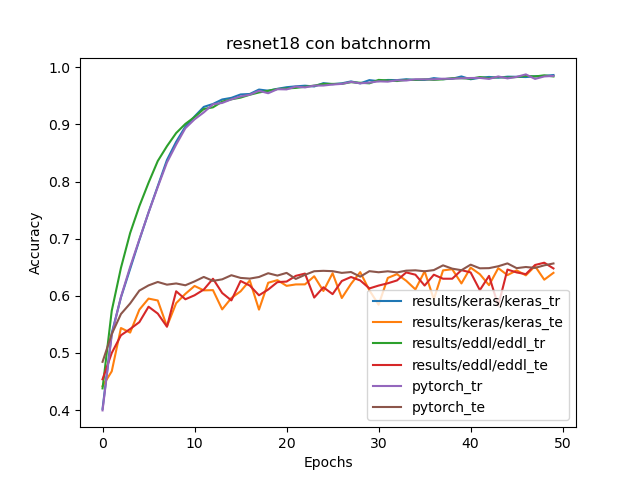
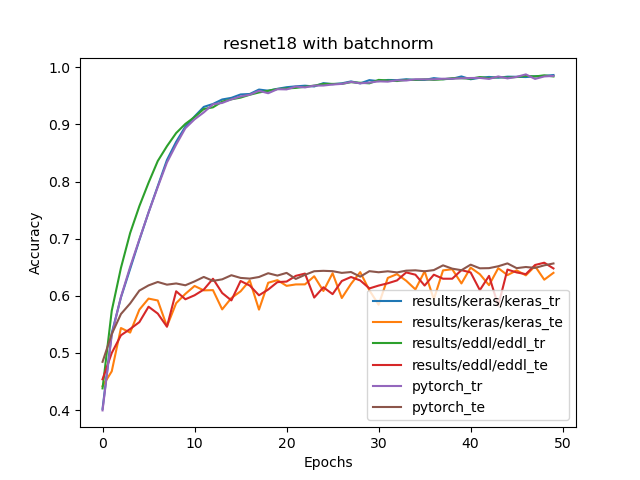
translate to english

Changed region(s): [[0.3438, 0.0625, 0.6875, 0.125]]

diff --git a/parse_res_resnet.py b/parse_res_resnet.py
@@ -17,7 +17,7 @@ def get_eddl_res(fname):
 		acc_eddl_te = [float(l.split("metric[categorical_accuracy]=")[1].split(" ) ")[0]) for l in lineste]
 		return acc_eddl, acc_eddl_te, round(np.mean(times))
 
-#VGG16 sin batchnorm
+#VGG16 without batchnorm
 with open("results/keras/keras_resnet18_no_batchnorm", "rb") as f:
 	acc_keras_tr = pickle.load(f)
 with open("results/keras/keras_val_resnet18_no_batchnorm", "rb") as f:
@@ -43,7 +43,7 @@ plt.plot(acc_eddl_tr)
 plt.plot(acc_eddl_te)
 plt.plot(acc_pytorch_tr)
 plt.plot(acc_pytorch_te)
-plt.title("resnet18 sin batchnorm")
+plt.title("resnet18 without batchnorm")
 plt.legend(["results/keras/keras_tr", "results/keras/keras_te", "results/eddl/eddl_tr", "results/eddl/eddl_te", "pytorch_tr", "pytorch_te"])
 plt.ylabel("Accuracy")
 plt.xlabel("Epochs")
@@ -52,7 +52,7 @@ plt.savefig("results/resnet18_nobn.png")
 plt.clf()
 
 
-#VGG16 con batchnorm
+#VGG16 with batchnorm
 with open("results/keras/keras_resnet18_batchnorm", "rb") as f:
 	acc_keras_tr = pickle.load(f)
 with open("results/keras/keras_val_resnet18_batchnorm", "rb") as f:
@@ -77,7 +77,7 @@ plt.plot(acc_eddl_tr)
 plt.plot(acc_eddl_te)
 plt.plot(acc_pytorch_tr)
 plt.plot(acc_pytorch_te)
-plt.title("resnet18 con batchnorm")
+plt.title("resnet18 with batchnorm")
 plt.legend(["results/keras/keras_tr", "results/keras/keras_te", "results/eddl/eddl_tr", "results/eddl/eddl_te", "pytorch_tr", "pytorch_te"])
 plt.ylabel("Accuracy")
 plt.xlabel("Epochs")
@@ -85,7 +85,7 @@ plt.savefig("results/resnet18_bn.png")
 #plt.show()
 plt.clf()
 
-#VGG19 sin batchnorm
+#VGG19 without batchnorm
 with open("results/keras/keras_resnet34_no_batchnorm", "rb") as f:
 	acc_keras_tr = pickle.load(f)
 with open("results/keras/keras_val_resnet34_no_batchnorm", "rb") as f:
@@ -111,7 +111,7 @@ plt.plot(acc_eddl_tr)
 plt.plot(acc_eddl_te)
 plt.plot(acc_pytorch_tr)
 plt.plot(acc_pytorch_te)
-plt.title("resnet34 sin batchnorm")
+plt.title("resnet34 without batchnorm")
 plt.legend(["results/keras/keras_tr", "results/keras/keras_te", "results/eddl/eddl_tr", "results/eddl/eddl_te", "pytorch_tr", "pytorch_te"])
 plt.ylabel("Accuracy")
 plt.xlabel("Epochs")
@@ -119,7 +119,7 @@ plt.savefig("results/resnet34_nobn.png")
 #plt.show()
 plt.clf()
 
-#VGG19 con batchnorm
+#VGG19 with batchnorm
 with open("results/keras/keras_resnet34_batchnorm", "rb") as f:
 	acc_keras_tr = pickle.load(f)
 with open("results/keras/keras_val_resnet34_batchnorm", "rb") as f:
@@ -144,7 +144,7 @@ plt.plot(acc_eddl_tr)
 plt.plot(acc_eddl_te)
 plt.plot(acc_pytorch_tr)
 plt.plot(acc_pytorch_te)
-plt.title("resnet34 con batchnorm")
+plt.title("resnet34 with batchnorm")
 plt.legend(["results/keras/keras_tr", "results/keras/keras_te", "results/eddl/eddl_tr", "results/eddl/eddl_te", "pytorch_tr", "pytorch_te"])
 plt.ylabel("Accuracy")
 plt.xlabel("Epochs")
@@ -152,7 +152,7 @@ plt.savefig("results/resnet34_bn.png")
 #plt.show()
 plt.clf()
 
-#VGG19 sin batchnorm
+#VGG19 without batchnorm
 with open("results/keras/keras_resnet50_no_batchnorm", "rb") as f:
 	acc_keras_tr = pickle.load(f)
 with open("results/keras/keras_val_resnet50_no_batchnorm", "rb") as f:
@@ -178,7 +178,7 @@ plt.plot(acc_eddl_tr)
 plt.plot(acc_eddl_te)
 plt.plot(acc_pytorch_tr)
 plt.plot(acc_pytorch_te)
-plt.title("resnet50 sin batchnorm")
+plt.title("resnet50 without batchnorm")
 plt.legend(["results/keras/keras_tr", "results/keras/keras_te", "results/eddl/eddl_tr", "results/eddl/eddl_te", "pytorch_tr", "pytorch_te"])
 plt.ylabel("Accuracy")
 plt.xlabel("Epochs")
@@ -186,7 +186,7 @@ plt.savefig("results/resnet50_nobn.png")
 #plt.show()
 plt.clf()
 
-#VGG19 con batchnorm
+#VGG19 with batchnorm
 with open("results/keras/keras_resnet50_batchnorm", "rb") as f:
 	acc_keras_tr = pickle.load(f)
 with open("results/keras/keras_val_resnet50_batchnorm", "rb") as f:
@@ -211,7 +211,7 @@ plt.plot(acc_eddl_tr)
 plt.plot(acc_eddl_te)
 plt.plot(acc_pytorch_tr)
 plt.plot(acc_pytorch_te)
-plt.title("resnet50 con batchnorm")
+plt.title("resnet50 with batchnorm")
 plt.legend(["results/keras/keras_tr", "results/keras/keras_te", "results/eddl/eddl_tr", "results/eddl/eddl_te", "pytorch_tr", "pytorch_te"])
 plt.ylabel("Accuracy")
 plt.xlabel("Epochs")

diff --git a/parse_res_vgg.py b/parse_res_vgg.py
@@ -17,7 +17,7 @@ def get_eddl_res(fname):
 		acc_eddl_te = [float(l.split("metric[categorical_accuracy]=")[1].split(" ) ")[0]) for l in lineste]
 		return acc_eddl, acc_eddl_te, round(np.mean(times))
 
-#VGG16 sin batchnorm
+#VGG16 without batchnorm
 with open("results/keras/keras_vgg16_no_batchnorm", "rb") as f:
 	acc_keras_tr = pickle.load(f)
 with open("results/keras/keras_val_vgg16_no_batchnorm", "rb") as f:
@@ -43,7 +43,7 @@ plt.plot(acc_eddl_tr)
 plt.plot(acc_eddl_te)
 plt.plot(acc_pytorch_tr)
 plt.plot(acc_pytorch_te)
-plt.title("VGG16 sin batchnorm")
+plt.title("VGG16 without batchnorm")
 plt.legend(["keras_tr", "keras_te", "eddl_tr", "eddl_te", "pytorch_tr", "pytorch_te"])
 plt.ylabel("Accuracy")
 plt.xlabel("Epochs")
@@ -52,7 +52,7 @@ plt.savefig("results/vgg16_nobn.png")
 plt.clf()
 
 
-#VGG16 con batchnorm
+#VGG16 with batchnorm
 with open("results/keras/keras_vgg16_batchnorm", "rb") as f:
 	acc_keras_tr = pickle.load(f)
 with open("results/keras/keras_val_vgg16_batchnorm", "rb") as f:
@@ -77,7 +77,7 @@ plt.plot(acc_eddl_tr)
 plt.plot(acc_eddl_te)
 plt.plot(acc_pytorch_tr)
 plt.plot(acc_pytorch_te)
-plt.title("VGG16 con batchnorm")
+plt.title("VGG16 with batchnorm")
 plt.legend(["keras_tr", "keras_te", "eddl_tr", "eddl_te", "pytorch_tr", "pytorch_te"])
 plt.ylabel("Accuracy")
 plt.xlabel("Epochs")
@@ -85,7 +85,7 @@ plt.savefig("results/vgg16_bn.png")
 #plt.show()
 plt.clf()
 
-#VGG19 sin batchnorm
+#VGG19 without batchnorm
 with open("results/keras/keras_vgg19_no_batchnorm", "rb") as f:
 	acc_keras_tr = pickle.load(f)
 with open("results/keras/keras_val_vgg19_no_batchnorm", "rb") as f:
@@ -111,7 +111,7 @@ plt.plot(acc_eddl_tr)
 plt.plot(acc_eddl_te)
 plt.plot(acc_pytorch_tr)
 plt.plot(acc_pytorch_te)
-plt.title("VGG19 sin batchnorm")
+plt.title("VGG19 without batchnorm")
 plt.legend(["keras_tr", "keras_te", "eddl_tr", "eddl_te", "pytorch_tr", "pytorch_te"])
 plt.ylabel("Accuracy")
 plt.xlabel("Epochs")
@@ -119,7 +119,7 @@ plt.savefig("results/vgg19_nobn.png")
 #plt.show()
 plt.clf()
 
-#VGG19 con batchnorm
+#VGG19 with batchnorm
 with open("results/keras/keras_vgg19_batchnorm", "rb") as f:
 	acc_keras_tr = pickle.load(f)
 with open("results/keras/keras_val_vgg19_batchnorm", "rb") as f:
@@ -138,7 +138,7 @@ plt.plot(acc_eddl_tr)
 plt.plot(acc_eddl_te)
 plt.plot(acc_pytorch_tr)
 plt.plot(acc_pytorch_te)
-plt.title("VGG19 con batchnorm")
+plt.title("VGG19 with batchnorm")
 plt.legend(["keras_tr", "keras_te", "eddl_tr", "eddl_te", "pytorch_tr", "pytorch_te"])
 plt.ylabel("Accuracy")
 plt.xlabel("Epochs")
